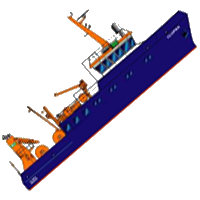
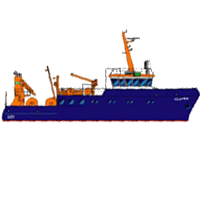
FINISHED THE ROTATION. Changed the DraggableObject system.

diff --git a/src/GameScreens/MainGameScreen.java b/src/GameScreens/MainGameScreen.java
@@ -32,6 +32,7 @@ public class MainGameScreen extends ScreenUtility.FullScreen {
     private int curX, curY, oldX, oldY;
     private float angle;
     private int rotateCount = 0;
+    private boolean onLand = false;
 
     // Image matrices
     private Mat aboveMat, belowMat, destination, maskMat, revealMask;
@@ -46,21 +47,26 @@ public class MainGameScreen extends ScreenUtility.FullScreen {
         addMouseListener(this);
         addMouseMotionListener(this);
         try{
-            boatIcon = ImageIO.read(getClass().getClassLoader().getResource("boat_icon1.png"));
-            planeIcon = ImageIO.read(getClass().getClassLoader().getResource("plane_icon1.png"));
+            boatIcon = ImageIO.read(getClass().getClassLoader().getResource("boat_temp.png"));
+            planeIcon = ImageIO.read(getClass().getClassLoader().getResource("plane_temp.png"));
+
         }catch(IOException e ){
 
         }
         boatButton = new JButton(new ImageIcon(boatIcon));
-        boatButton.setBorder(BorderFactory.createEmptyBorder());
-        boatButton.setContentAreaFilled(false);
-        boatButton.setBounds(1510, 10, 200, 200);
+        boatButton.setBorder( BorderFactory.createLineBorder( Color.RED ));
+        //boatButton.setContentAreaFilled(false);
+        boatButton.setOpaque(true);
+        boatButton.setBackground( Color.GRAY.darker() );
+        boatButton.setBounds(1510, 10, boatIcon.getWidth(), boatIcon.getHeight());
         boatButton.addActionListener(this);
 
         planeButton = new JButton(new ImageIcon(planeIcon));
-        planeButton.setBorder(BorderFactory.createEmptyBorder());
-        planeButton.setContentAreaFilled(false);
-        planeButton.setBounds(1710, 10, 200, 200);
+        planeButton.setBorder(BorderFactory.createLineBorder(Color.RED));
+        //planeButton.setContentAreaFilled(false);
+        planeButton.setOpaque(true);
+        planeButton.setBackground( Color.GRAY.darker() );
+        planeButton.setBounds(1710, 10, planeIcon.getWidth(), planeIcon.getHeight());
         planeButton.addActionListener(this);
 
         imageLoader = imgLoader;
@@ -84,54 +90,48 @@ public class MainGameScreen extends ScreenUtility.FullScreen {
             public void update(Graphics g) {
                 paintComponent(g);
             }
-
             // Displays the screen
             public void paintComponent(Graphics g) {
                 Graphics2D g2 = (Graphics2D) g;
                 g2.setRenderingHint(RenderingHints.KEY_TEXT_ANTIALIASING, RenderingHints.VALUE_TEXT_ANTIALIAS_ON);
-
                 super.paintComponent(g2);
-                // Calculate the new pixels
+
+                // Calculate the new pixels for the background
                 if (globalPoint != null)
                     imageLoader.checkPixels(revealMask, destination, globalPoint);
                 // Render the new image
                 destImage = imageLoader.getImage(destination);
                 // Draw it
                 g2.drawImage(destImage, 0, 0, null);
-                g2.rotate(Math.toRadians(angle), boatX+188, boatY+14);
-                g2.drawImage(dragBoat.img, boatX, boatY, null);
-                dragBoat.setBounds(boatX, boatY, 200, 200);
+
+                // Need to save the old transformation or else the buttons get messed up
+                AffineTransform oldXForm = g2.getTransform();
+                if( !onLand )
+                    g2.rotate(Math.toRadians(angle), dragBoat.x + 100, dragBoat.y + 100);
+                g2.drawImage(dragBoat.img, dragBoat.x, dragBoat.y, null);
+                dragBoat.bounds.setBounds(dragBoat.x, dragBoat.y, dragBoat.width, dragBoat.height);
+                // Restore to normal transformation
+                g2.setTransform( oldXForm );
             }
         });
-        panel.setLayout(null);
-        panel.add( boatButton );
-        panel.add( planeButton );
-        dragBoat = new DraggableBoat();
-        dragBoat.setBounds( 500, 500, 200, 200);
-        boatX = dragBoat.getX();
-        boatY = dragBoat.getY();
-        panel.add( dragBoat );
-    }
 
-    @Override
-    public void mouseClicked(MouseEvent e) {
-//        org.opencv.core.Point mousePoint = new org.opencv.core.Point(e.getX(), e.getY());
-//        globalPoint = mousePoint;
-//
-//        double[] values = maskMat.get((int) mousePoint.y, (int) mousePoint.x);
-//        if( values != null ) {
-//            Core.circle(revealMask, mousePoint, circleRadius, new Scalar(255.0, 255.0, 255.0), -1, 0, 0);
-//        }
-//
-//        repaint((int) mousePoint.x - circleRadius, (int) mousePoint.y - circleRadius, circleRadius * 2, circleRadius * 2);
+        panel.setLayout(null);
+        panel.add(boatButton);
+        panel.add( planeButton );
+        dragBoat = new DraggableBoat(500, 500);
+        //dragBoat.setBounds( 500, 500, 200, 200);
+        boatX = dragBoat.x;
+        boatY = dragBoat.y;
+        //panel.add( dragBoat );
     }
 
     @Override
     public void mouseDragged(MouseEvent e) {
-        if( dragBoat.getBounds().contains(e.getPoint()) && boatActive) {
+        if( dragBoat.bounds.getBounds().contains(e.getPoint()) && boatActive) {
             curX = e.getX();
             curY = e.getY();
-            if( rotateCount == 2 ){
+            // Rotate every other pixel
+            if( rotateCount == 1 ){
                 calculateRotation();
                 rotateCount = 0;
             }
@@ -140,12 +140,17 @@ public class MainGameScreen extends ScreenUtility.FullScreen {
 
             double[] values = maskMat.get((int) mousePoint.y, (int) mousePoint.x);
             if (values != null) {
+                if( values[0] == 0.0 && values[1] == 0.0 && values[2] == 0.0 ){
+                    onLand = true;
+                }else onLand = false;
                 Core.circle(revealMask, mousePoint, circleRadius, new Scalar(255.0, 255.0, 255.0), -1, 0, 0);
             }
-            boatX = curX - 100;
-            boatY = curY - 100;
-            //boatX = (curX - boatX);
-            //boatY = (curY - boatY);
+            // Make sure we are not dragging the boat over land
+            if( !onLand ) {
+                dragBoat.x = curX - 100;
+                dragBoat.y = curY - 100;
+            }
+
             if( rotateCount == 0 ){
                 oldX = curX;
                 oldY = curY;
@@ -159,15 +164,10 @@ public class MainGameScreen extends ScreenUtility.FullScreen {
     public void calculateRotation(){
         int dX = curX - oldX;
         int dY = curY - oldY;
-        //System.out.println( "dX: " + dX + " dY: " + dY );
-        //angle = (int)Math.atan2( dY, dX );
         angle = (float) Math.toDegrees(Math.atan2(dY, dX));
-
         if(angle < 0){
             angle += 360;
         }
-        System.out.println( angle );
-
     }
 
     public void actionPerformed(ActionEvent e) {
@@ -179,4 +179,7 @@ public class MainGameScreen extends ScreenUtility.FullScreen {
             planeActive = true;
         }
     }
+
+    @Override
+    public void mouseClicked(MouseEvent e) {}
 }

diff --git a/src/Objects/DraggableBoat.java b/src/Objects/DraggableBoat.java
@@ -10,15 +10,22 @@ import java.io.IOException;
 /**
  * Created by danny on 3/12/15.
  */
-public class DraggableBoat extends JComponent{
+public class DraggableBoat {
     private final String IMG_PATH = getClass().getClassLoader().getResource("boat_icon2.png").getPath();
     public BufferedImage img;
-    ImageIcon icon;
-    JLabel label;
+    public int x, y, height, width;
+    public Rectangle bounds;
 
-    public DraggableBoat(){
+    public DraggableBoat(int xLoc, int yLoc){
         try {
             img = ImageIO.read(new File(IMG_PATH));
+            width = img.getWidth();
+            height = img.getHeight();
+            x = xLoc;
+            y = yLoc;
+            bounds = new Rectangle( x, y, width, height );
+            bounds.setBounds( x, y, width, height );
+
         } catch (IOException e) {
             e.printStackTrace();
         }
